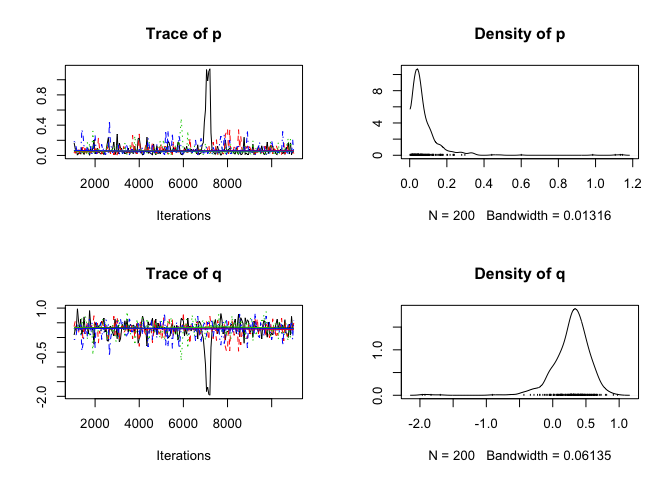
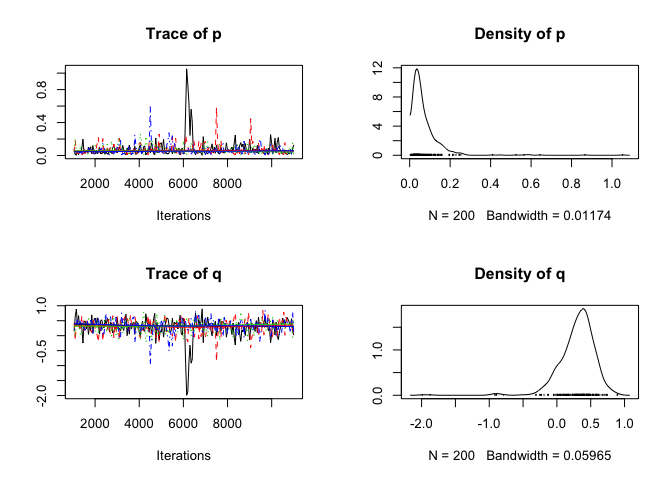
added references

diff --git a/README.md b/README.md
@@ -5,6 +5,7 @@
 -   [Installation](#installation)
 -   [Create a Bayesian Bass model](#create-a-bayesian-bass-model)
 -   [Outlook](#outlook)
+-   [Resources](#resources)
 
 Bayesian Bass Model
 ===================
@@ -89,7 +90,7 @@ print(fit)
     ## # A tibble: 1 x 2
     ##        p     q
     ##    <dbl> <dbl>
-    ## 1 0.0807 0.282
+    ## 1 0.0718 0.300
 
 Next we plot the adoption for each point in time with the fitted bass model superimposed as adoption curve.
 
@@ -111,9 +112,9 @@ head(predicted_uptake)
     ## # A tibble: 3 x 2
     ##       t predicted
     ##   <int>     <dbl>
-    ## 1     2     0.192
-    ## 2     3     0.304
-    ## 3     4     0.421
+    ## 1     2     0.176
+    ## 2     3     0.284
+    ## 3     4     0.398
 
 However, we did not use the advantages of the bayesian approach to Bass models, which will provide a complete distribution over parameters or predictions.
 
@@ -161,21 +162,21 @@ str(pred_diffusion)
 
     ## List of 3
     ##  $ diffusion_predicted:List of 10
-    ##   ..$ : num [1:800] 0.15912 0.10002 0.07898 0.00728 0.03495 ...
-    ##   ..$ : num [1:800] 0.302 0.2136 0.1739 0.0262 0.0916 ...
-    ##   ..$ : num [1:800] 0.4272 0.3348 0.2816 0.0731 0.1779 ...
-    ##   ..$ : num [1:800] 0.535 0.456 0.396 0.179 0.297 ...
-    ##   ..$ : num [1:800] 0.625 0.569 0.51 0.37 0.441 ...
-    ##   ..$ : num [1:800] 0.7 0.669 0.615 0.611 0.591 ...
-    ##   ..$ : num [1:800] 0.761 0.752 0.707 0.807 0.724 ...
-    ##   ..$ : num [1:800] 0.811 0.818 0.782 0.918 0.825 ...
-    ##   ..$ : num [1:800] 0.851 0.868 0.842 0.968 0.894 ...
-    ##   ..$ : num [1:800] 0.883 0.906 0.887 0.988 0.938 ...
+    ##   ..$ : num [1:800] 0.08204 0.01902 0.00713 0.05947 0.01473 ...
+    ##   ..$ : num [1:800] 0.1675 0.0535 0.0242 0.1381 0.0425 ...
+    ##   ..$ : num [1:800] 0.2544 0.1131 0.0635 0.2362 0.093 ...
+    ##   ..$ : num [1:800] 0.341 0.208 0.147 0.35 0.178 ...
+    ##   ..$ : num [1:800] 0.424 0.344 0.301 0.471 0.307 ...
+    ##   ..$ : num [1:800] 0.503 0.505 0.515 0.588 0.47 ...
+    ##   ..$ : num [1:800] 0.575 0.664 0.722 0.693 0.638 ...
+    ##   ..$ : num [1:800] 0.641 0.791 0.864 0.779 0.778 ...
+    ##   ..$ : num [1:800] 0.699 0.879 0.94 0.846 0.874 ...
+    ##   ..$ : num [1:800] 0.75 0.933 0.974 0.894 0.932 ...
     ##  $ diffusion_data     :Classes 'tbl_df', 'tbl' and 'data.frame': 10 obs. of  4 variables:
-    ##   ..$ avg_adoption : num [1:10] 0.0773 0.1574 0.2456 0.3431 0.4473 ...
-    ##   ..$ sdev_adoption: num [1:10] 0.0578 0.0861 0.0994 0.1003 0.0923 ...
-    ##   ..$ hdi_lower    : num [1:10] 0.0056 0.0347 0.0723 0.1546 0.2698 ...
-    ##   ..$ hdi_upper    : num [1:10] 0.193 0.341 0.438 0.535 0.626 ...
+    ##   ..$ avg_adoption : num [1:10] 0.0712 0.1479 0.2343 0.3314 0.4364 ...
+    ##   ..$ sdev_adoption: num [1:10] 0.0504 0.0773 0.0915 0.0947 0.09 ...
+    ##   ..$ hdi_lower    : num [1:10] 0.00441 0.02214 0.07387 0.15718 0.26203 ...
+    ##   ..$ hdi_upper    : num [1:10] 0.16 0.291 0.411 0.525 0.605 ...
     ##  $ diffusion_actual   :Classes 'tbl_df', 'tbl' and 'data.frame': 5 obs. of  5 variables:
     ##   ..$ t    : num [1:5] 2 4 6 8 10
     ##   ..$ n    : int [1:5] 10 10 10 10 10
@@ -191,18 +192,29 @@ purrr::pluck(pred_diffusion, "diffusion_data")
     ## # A tibble: 10 x 4
     ##    avg_adoption sdev_adoption hdi_lower hdi_upper
     ##           <dbl>         <dbl>     <dbl>     <dbl>
-    ##  1       0.0773        0.0578   0.00560     0.193
-    ##  2       0.157         0.0861   0.0347      0.341
-    ##  3       0.246         0.0994   0.0723      0.438
-    ##  4       0.343         0.100    0.155       0.535
-    ##  5       0.447         0.0923   0.270       0.626
-    ##  6       0.552         0.0832   0.375       0.702
-    ##  7       0.648         0.0804   0.496       0.808
-    ##  8       0.728         0.0829   0.581       0.893
-    ##  9       0.792         0.0856   0.621       0.939
-    ## 10       0.840         0.0859   0.658       0.972
+    ##  1       0.0712        0.0504   0.00441     0.160
+    ##  2       0.148         0.0773   0.0221      0.291
+    ##  3       0.234         0.0915   0.0739      0.411
+    ##  4       0.331         0.0947   0.157       0.525
+    ##  5       0.436         0.0900   0.262       0.605
+    ##  6       0.542         0.0843   0.365       0.699
+    ##  7       0.640         0.0843   0.487       0.803
+    ##  8       0.723         0.0881   0.563       0.880
+    ##  9       0.789         0.0908   0.623       0.942
+    ## 10       0.838         0.0907   0.664       0.970
 
 Outlook
 =======
 
 This packages contains the main functions to fit and plot a Bayesian Bass Model and predict future uptake of innovations. However, some functions such as getter functions are still missing. I do not plan to develop this package further in the near future, but maybe people in innovation science may find it useful. Feel free to clone and add new features to this package.
+
+Resources
+=========
+
+E.M. Rogers, Diffusion of innovations, 5th ed, Free Press, New York, 2003.
+
+F.M. Bass, A New Product Growth for Model Consumer Durables, Manag. Sci. 15 (1969) 215–227. <doi:10.1287/mnsc.15.5.215>.
+
+V. Mahajan, E. Muller, and F.M. Bass, New Product Diffusion Models in Marketing: A Review and Directions for Research, in: N. Nakićenović, and A. Grübler (Eds.), Diffus. Technol. Soc. Behav., Springer Berlin Heidelberg, Berlin, Heidelberg, 1991: pp. 125–177. <doi:10.1007/978-3-662-02700-4_6>.
+
+S.T. Mennemeyer, N. Menachemi, S. Rahurkar, and E.W. Ford, Impact of the HITECH Act on physicians’ adoption of electronic health records, J. Am. Med. Inform. Assoc. 23 (2016) 375–379. <doi:10.1093/jamia/ocv103>.
